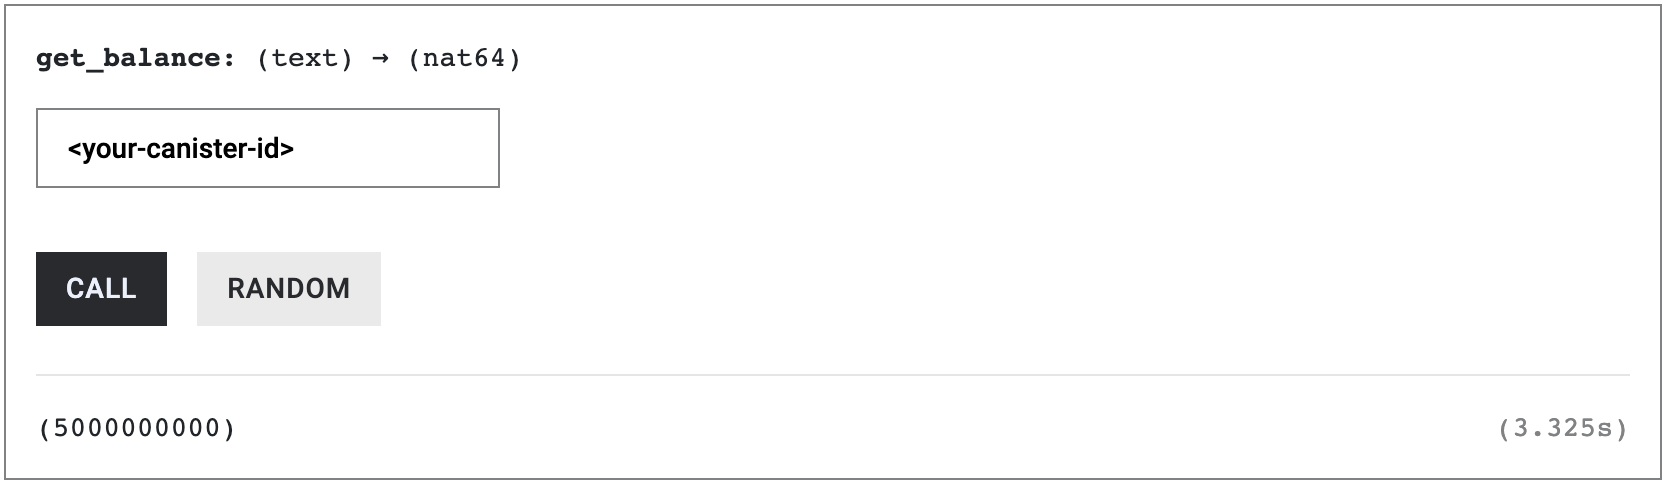
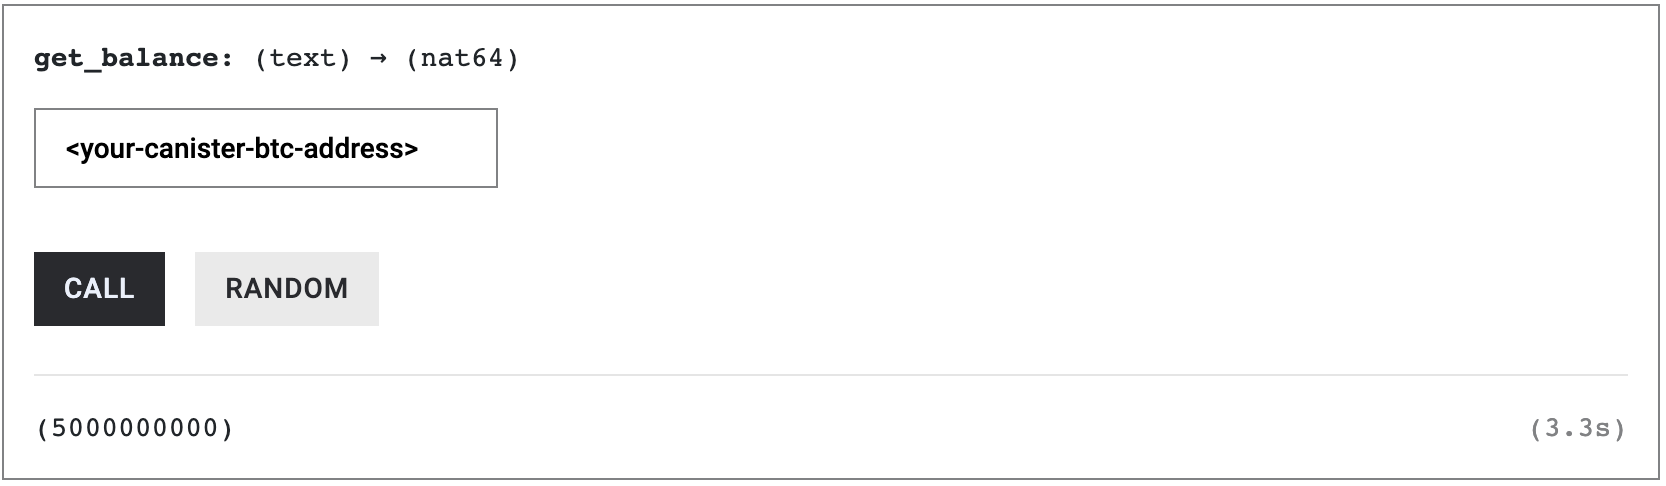
minor fixes

diff --git a/docs/developer-docs/functionality/bitcoin/local-development.md b/docs/developer-docs/functionality/bitcoin/local-development.md
@@ -113,7 +113,7 @@ You can now deploy your canister and configure it to connect to your local `Regt
 
 2. Deploy the example canister:
 
-    dfx deploy basic_bitcoin --argument '(variant { Regtest })'
+        dfx deploy basic_bitcoin --argument '(variant { Regtest })'
 
     If successful, you should see an output that looks like this:
 
@@ -189,7 +189,7 @@ Now, check your BTC balance:
 
 Or, via the command line:
 
-    dfx canister call basic_bitcoin get_balance '("<your-canister-id>")'
+    dfx canister call basic_bitcoin get_balance '("<your-canister-btc-address>")'
 
 If everything worked well, you should see a balance of 5,000,000,000 Satoshi, which is 50 BTC.
 This is the reward you received for mining one block.
